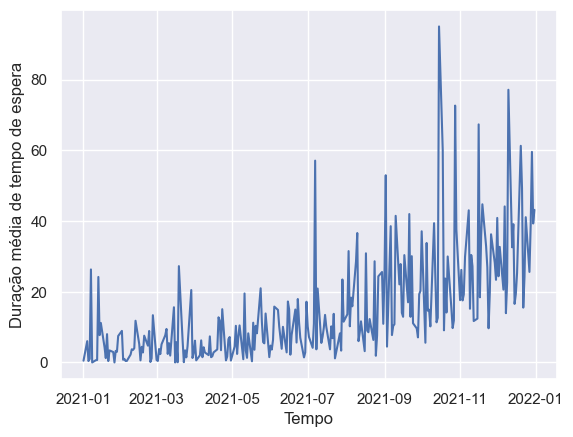
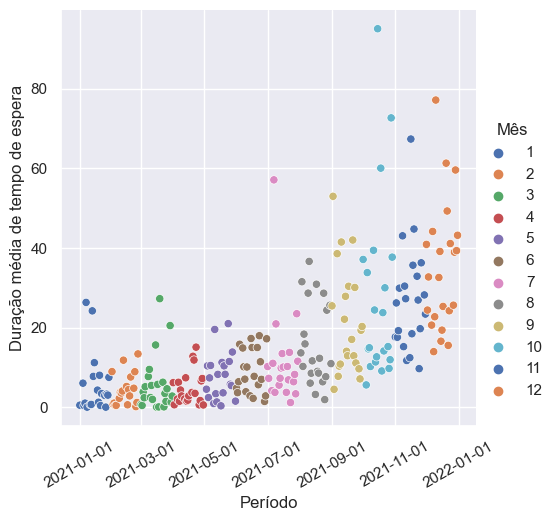
Correção para escrita do documento 2

diff --git a/Documentos/Entrega 2/analise-de-dados/regressao/regressao.tex b/Documentos/Entrega 2/analise-de-dados/regressao/regressao.tex
@@ -1,8 +1,8 @@
 \subsection{Estudos de Regressão}
 
-Ao montarmos a visualização dos tempos de chegada ao longo do tempo percebemos que havia tendência nos dados. Para isso, primeiro, calculamos todos os tempos de chegada das chamadas, subtraindo o horário de recebimento de uma chamada subsequente pelo da anterior, isto é:
+Ao montarmos a visualização dos tempos entre chegadas ao longo do tempo percebemos que havia tendência nos dados. Para isso, primeiro, calculamos todos os intervalos entre a chegada das chamadas, subtraindo o horário de recebimento de uma chamada subsequente pelo da anterior, isto é:
 
-$$Tempo_{chegada}(c_n) = t_n - t_{n-1}$$ 
+$$Intervalo_{chegada}(c_n) = t_n - t_{n-1}$$ 
 
 \begin{itemize}
     \item $c_n$ é a chamada de número $n$
@@ -10,16 +10,16 @@ $$Tempo_{chegada}(c_n) = t_n - t_{n-1}$$
     \item $t_{n-1}$ é o tempo de recebimento da chamada $n-1$
 \end{itemize}
 
-Depois, as chamadas foram classificadas por dia, e, assim, calculado o tempo de chegada médio diário delas. O principal intuito desta etapa é facilitar a visualização da evolução desse parâmetro ao longo do tempo. O gráfico obtido por essa operação está abaixo, na figura 13.
+Depois, as chamadas foram classificadas por dia, e, assim, calculado o intervalo de chegada médio diário delas. O principal intuito desta etapa é facilitar a visualização da evolução desse parâmetro ao longo do tempo. O gráfico obtido por essa operação está na Figura \ref*{fig: arrivals-tempo}.
 
-A partir dessa percepção, são, então, propostos alguns estudos de regressão mais particulares para representar a tendência dos dados. Um usando "Ordinary Least Squares" e uma regressão exponencial.  
+A partir dessa percepção, são então propostos alguns estudos de regressão mais particulares para representar a tendência dos dados. Um usando "Ordinary Least Squares"\;e uma regressão exponencial.  
 
-\subsection{Ordinary Least Squares}
+\subsubsection{Ordinary Least Squares (Regressão linear)}
 
-Utilizando a biblioteca statsmodel do python foi realizado o estudo de regressão. A Equação Obtida foi: $$intervalos(t) = -0,4933 \cdot t + 252,6629$$. O resumo da regressão e o plot podem ser colocados a seguir: 
+Utilizando a biblioteca Statsmodel do Python foi realizado o estudo de regressão. A Equação Obtida foi: $$intervalos(t) = -0,4933 \cdot t + 252,6629$$ O resumo da regressão é mostrado na Figura \ref*{fig: sum_OLS} e o plot na Figura \ref*{fig: plot_OLS}.
 
 \begin{figure}[H]
-    \includegraphics{analise-de-dados/regressao/regressao_OLS.png}
+    \includegraphics[scale=0.9]{analise-de-dados/regressao/regressao_OLS.png}
     \caption{Regressão Linear para os tempos de espera}
     \label{fig: plot_OLS}
 \end{figure}
@@ -32,14 +32,14 @@ Utilizando a biblioteca statsmodel do python foi realizado o estudo de regressã
 
 Temos que os valores p são menores que o nível de significância adotado, e, portanto, o modelo de regressão existe. Entretanto, para os dias em que $t > 512$ o tempo de chegada das chamadas seria negativo, o que levanta questões sobre se este método de regressão é aplicável para modelar o tempo entre as chamadas.
 
-\subsection{OLS exponencial}
+\subsubsection{OLS exponencial}
 
 De maneira semelhante ao primeiro estudo, este também foi feito utilizando a biblioteca statsmodel. Entretanto, ao invés dos parâmetros para a regressão terem sido adicionados como são ao modelo, ele foi construído usando: $$ln(y) = ln(b) + a \cdot x$$
 
 Dessa maneira, a equação obtida para representar os dados foi:
 $$intervalos(t) = 260,9424 \cdot e^{-0,0027x} $$
 
-O resumo e o gráfico da regressão estão nas imagens 16 e 17:
+O resumo e o gráfico da regressão estão nas Figuras \ref*{fig: sum_Expo_OLS} e \ref*{fig: plot_Expo_OLS}, respectivamente.
 \begin{figure}[H]
     \includegraphics{analise-de-dados/regressao/regressao_EXPO.png}
     \caption{Regressão Exponencial para os tempos de espera}
@@ -52,4 +52,4 @@ O resumo e o gráfico da regressão estão nas imagens 16 e 17:
     \label{fig: sum_Expo_OLS}
 \end{figure}
 
-Para Este caso, a explicabilidade do modelo aumentou e o problema que antes existia já não mais existe. Como os Valores P seguem menores do que 0, o modelo existe e pode ser usado.
+Para este caso, a explicabilidade do modelo aumentou e o problema da obtenção de intervalos negativos com a regressão linear deixou de existir. Como os valores $p$ seguem menores do que 0, o modelo existe e pode ser usado.

diff --git a/Documentos/Entrega 2/analise-de-dados/mensal/mensal.tex b/Documentos/Entrega 2/analise-de-dados/mensal/mensal.tex
@@ -1,21 +1,23 @@
 \subsection{Análise mensal}
-Foi realizada uma análise mês a mês a fim de identificar, a partir de uma nova perspectiva. Para isso, foi gerada uma tabela com um resumo das médias dos tempos de espera, serviço e de chegada de ligação mês a mês.\\
-A partir disso, foi possível calcular a porcentagem de falha (\%\_failure), com base na divisão do número total de ligações que demoraram mais de 60 segundos para serem atendidas pelo total de ligações atendidas em cada mês. 
-A partir dessa tabela \ref*{fig: tmes} é possível retirar algumas conclusões relevantes e transformar a base de dados com filtro mês a mês em informações capazes de nos demonstrar o comportamento do processo de atendimento nos quesitos tempo de espera médio, duração média do atendimento, média do tempo entre as chegadas, média do número de ligações recebidas e também a porcentagem de falhas.  
+Foi realizada uma agregação mensal a fim de visualizar as tendências das variáveis do sistema estudado ao longo do ano. Para isso, foi gerada uma tabela com um resumo das médias dos tempos de espera, serviço e de tempo entre chegadas das ligações mês a mês.\\
+A partir disso, foi possível calcular a porcentagem de falhas ("\%\_failure") com base na divisão do número total de ligações que demoraram mais de 60 segundos para serem atendidas pelo total de ligações atendidas em cada mês.\\
+A partir da Figura \ref*{fig: tmes} é possível visualizar alguns dados relevantes e transformar a base de dados com filtro mês a mês em informações capazes de nos demonstrar o comportamento do processo de atendimento nos quesitos tempo de espera médio, duração média do atendimento, média do tempo entre as chegadas, média do número de ligações recebidas e também a porcentagem de falhas.  
+
 \begin{figure}[H]
-    \includegraphics[scale=0.7]{analise-de-dados/mensal/tabmens.png}
+    \includegraphics[scale=0.75]{analise-de-dados/mensal/tabmens.png}
     \caption{Tabela de resumo das médias dos tempos de espera, serviço e de chegada de ligações mês a mês}
     \label{fig: tmes}
 \end{figure}
 
-Realizando uma análise de cada uma das variáveis analisadas, é possível obter:
+Realizando uma análise de cada uma das variáveis do sistema, apoiando-se nos testes de hipótese realizados anteriormente, é possível obter as seguintes conclusões a respeito dessas variáveis:
 \begin{itemize}
-    \item Tempo de espera: Aumenta mês a mês
-    \item Média do tempo de serviço: Relativamente constantes
-    \item Tempo entre chegadas: Diminui mensalmente
-    \item Número de ligações: Aumenta mensalmente
-    \item Percentual de falhas: Aumenta mês a mês. A partir de setembro de 2021, a tolerância de 10\% que foi estipulada pelo
-     gerente é superada e, a partir desta data se mantêm assim.\\
-Portanto, o percentual falhas, aqui definido como o percentual de chamadas que demoram mais de 60 segundos para serem atendidas, aumenta mês a mês, ultrapassando, a partir de setembro de 2021,
-a tolerância de 10\% estipulada pelo gerente e a operação começa a ficar fora das metas estipuladas pela gerência
+    \item Tempo de espera: aumenta mês a mês;
+    \item Média do tempo de serviço: relativamente constantes;
+    \item Tempo entre chegadas: diminui mensalmente;
+    \item Número de ligações: aumenta mensalmente;
+    \item Percentual de falhas: aumenta mês a mês. A partir de setembro de 2021, a tolerância de 10\% que foi estipulada pelo
+     gerente é superada.\\
 \end{itemize}
+
+Portanto, o percentual de falhas, aqui definido como o percentual de chamadas que demoram mais de 60 segundos para serem atendidas, aumenta mês a mês, ultrapassando, a partir de setembro de 2021,
+a tolerância de 10\% necessária para cumprir a meta de desempenho de 90\% das chamadas atendidas em até 1 minuto.

diff --git a/Documentos/Entrega 2/introducao/introducao.tex b/Documentos/Entrega 2/introducao/introducao.tex
@@ -1,44 +1,11 @@
-\subsection{Descrição do projeto}
-Na primeira etapa do projeto, foi realizada a modelagem e analíse dos dados referentes a ligações recebidas por uma central de atendimentos. Para isso, foram analisadas diferentes variáveis para que seu comportamento fosse analisado. Sendo assim, o projeto busca sanar os problemas relacionados a eficiência nos sistemas de atendimento, identificando possíveis gargalos.\\
-\begin{figure}[H]
-    \includegraphics[scale= 0.6]{introducao/imgintro.png}
-    \caption{Banco de dados - 5 primeiras chamadas}
-    \label{fig: bd_img}
-\end{figure}
-Na Figura \ref*{fig: bd_img}, pode-se observar 5 ligações registradas dentro da base de dados, bem como todas as variáveis.
-\begin{itemize} 
-    \item"Call\_id" é a identificação da ocorrência
-    \item"date" é a data
-    \item "daily\_caller" registra as ligações num dia
-    \item"call\_started", "call\_answered" e "call\_ended" são os momentos de ligação, atendimento e término das chamadas
-    \item wait\_length é o tempo de espera
-    \item"service\_length" é o tempo de atendimento
-    \item"meets\_standard" retorna verdadeiro caso o tempo de espera seja menor do que um minuto 
-    \item"call\_type" é o tipo da ligação.
-\end{itemize}
-Para os testes de hipóteses atrelados às diferenças entre essas variáveis em diferentes períodos foi utilizado o método Kolmogorov-Smirnov para duas amostras que possui caráter não parametrico, sendo assim:\\
-\begin{center}
-$H{0}$ : Amostras seguem a mesma distribuição\\
-$H{a}$ : Amostras seguem distribuições diferentes
-\end{center}
-Posteriormente a confirmação positiva da diferença entre amostras, foi realizado o teste de aderência das amostras às distribuições cauchy, chi quadrado, exponencial, gamma, lognormal, normal, powerlaw, rayleigh, uniforme.\\
-Por último para analisar as correlações entre variáveis, foram realizadas regressões lineares e exponeciais.\\
+\subsection{Descrição do problema}
+ESCREVER UMA DESCRIÇÃO (PRA VALER) DO PROBLEMA DO CALL-CENTER E QUAIS QUESTÕES VAMOS ABORDAR.
 
-\subsection{Próxima etapa}
-Para a próxima etapa do processo, será realizada a modelagem da diferença entre chegadas (ligações) no sistema, para que posteriormente seja desenvolvida a simulação no ARENA.
+\subsection{Alterações da versão anterior}
+Descrição mais detalhada do problema da central de atendimentos.\\
+Os gráficos de linhas das Figuras \ref*{fig: chamados-tempo}, \ref*{fig: t_servico-tempo}, \ref*{fig: espera-tempo} e \ref*{fig: arrivals-tempo} foram substituídos por gráficos de dispersão.\\
+A Figura \ref*{fig: correlogram} foi adicionada ao estudo de correlação das variáveis na Seção \ref*{section: correlacao-anual} para auxiliar na visualização do resultado obtido pelo teste de correlação de Spearman.\\
+As seções de introdução e conclusão foram reorganizadas para a escrita de novos conteúdos.\\
+Realização dos testes de aderência mensais para tempos entre chegadas na Seção \ref*{section: fit-arrivals}.\\
+Correção de erros gerais de redação e referências.
 
-\subsection{Ferramentas utilizadas}
-A modelagem e as análises estatísticas do projeto foram todas realizadas em python 3.9, através do ambiente google colab.\\
-Para isso, foram utilizadas as bibliotecas:
-\begin{itemize}
-    \item pandas
-    \item numpy
-    \item seaborn
-    \item fitter
-    \item scipy.stats
-    \item tabulate
-    \item sklearn.linear\_model
-    \item statsmodels.api
-    \item scipy.linalg
-    \item matplotlib.pyplot
-    \end{itemize}

diff --git a/Documentos/Entrega 2/analise-de-dados/semanal/semanal.tex b/Documentos/Entrega 2/analise-de-dados/semanal/semanal.tex
@@ -1,18 +1,20 @@
 \subsection{Análise semanal}
-O ponto principal para a escolha ou não da análise semanal é justamente a existência de diferenças das amostras semanais entre si, que justificaria posterior análise dos dados para melhor compreensão.\\
+O ponto principal para a escolha ou não da análise semanal é justamente a existência de diferenças das amostras semanais entre si, as quais justificariam a adoção desse nível de agregação mais detalhado.\\
+
 \subsubsection{Análise dos tempos de espera e serviço}
-O teste não paramétrico de Kolgomorov Smirnov novamente foi utilizado para realização do teste de hipótese.\\
-Para que não houvesse uma matriz com as respostas desnecessariamente grande (matriz 52x52) foi realizado o teste apenas para as semanas dos meses de dezembro e janeiro.\\
-    \begin{figure}[H]
-        \includegraphics{analise-de-dados/semanal/janas.png}
-        \caption{Kolgomorov Smirnov - teste para intervalos de chegada nas semanas de janeiro}
-        \label{fig: jan_as_img}
-    \end{figure}
-    \begin{figure}[H]
-        \includegraphics{analise-de-dados/semanal/dezas.png}
-        \caption{Kolgomorov Smirnov - teste para intervalos de chegada nas semanas de dezembro}
-        \label{fig: dez_as_img}
-    \end{figure}
-A figura \ref*{fig: jan_as_img} realiza o teste para os tempos de intervalo de chegada no mês de janeiro\\
-A figura \ref*{fig: dez_as_img} realiza o teste para os tempos de intervalo de chegada no mês de dezembro\\
+O teste não paramétrico de Kolgomorov Smirnov foi novamente utilizado para realização do teste de hipótese. Para que não houvesse uma matriz desnecessariamente grande, contendo testes dois a dois para cada uma das 52 semanas de um ano (matriz 52x52), foram representas apenas as primeiras oito semanas do ano e as últimas oito semanas do ano.
+
+\begin{figure}[H]
+    \includegraphics{analise-de-dados/semanal/janas.png}
+    \caption{Kolgomorov Smirnov - teste para intervalos de chegada nas semanas de janeiro}
+    \label{fig: jan_as_img}
+\end{figure}
+
+\begin{figure}[H]
+    \includegraphics{analise-de-dados/semanal/dezas.png}
+    \caption{Kolgomorov Smirnov - teste para intervalos de chegada nas semanas de dezembro}
+    \label{fig: dez_as_img}
+\end{figure}
+
+A Figura \ref*{fig: jan_as_img} mostra o teste de Kolmogorov-Smirnov para os tempos de intervalo entre chegadas nas primeiras oito semanas do ano. A Figura \ref*{fig: dez_as_img} apresenta o teste de hipóteses para os tempos de intervalo entre chegadas nas últimas oito semanas do ano.\\
 Foi possível observar que no horizonte de planejamento semanal, semanas subsequentes tendem a ter intervalos de chegada que seguem a mesma distribuição de probabilidade e, portanto, o planejamento semanal não é interessante para esse problema, visto que não é possível perceber as diferenças de demanda nesse nível de análise.

diff --git a/Documentos/Entrega 2/analise-de-dados/intro-analise/intro-analise.tex b/Documentos/Entrega 2/analise-de-dados/intro-analise/intro-analise.tex
@@ -1,0 +1,48 @@
+Na primeira etapa do projeto, foi realizada a modelagem e analíse dos dados referentes às ligações recebidas por uma central de atendimentos. Para isso, foram analisadas diferentes variáveis para que seus comportamentos fossem modelados. Sendo assim, o projeto busca sanar os problemas relacionados a eficiência nos sistemas de atendimento, identificando possíveis gargalos.
+
+\begin{figure}[H]
+    \includegraphics[scale= 0.6]{analise-de-dados/intro-analise/imgintro.png}
+    \caption{Banco de dados - 5 primeiras chamadas}
+    \label{fig: bd_img}
+\end{figure}
+
+Na Figura \ref*{fig: bd_img}, pode-se observar a estrutura da base de dados, assim como as colunas descritas a seguir:
+
+\begin{itemize} 
+    \item"call\_id" é a identificação da ligação (chave primária);
+    \item"date"\;é a data da ligação;
+    \item "daily\_caller"\;numera as ligações em um dia;
+    \item"call\_started", "call\_answered" e "call\_ended"\;são os instantes de chegada, atendimento e término  da ligação, respectivamente;
+    \item wait\_length\;é o tempo de espera;
+    \item"service\_length"\;é o tempo de atendimento;
+    \item"meets\_standard"\;retorna verdadeiro caso o tempo de espera seja menor do que um minuto;
+    \item"call\_type" é o tipo da ligação.
+\end{itemize}
+
+Todos os tempos da base de dados estão em segundos.\\
+Para os testes de hipóteses atrelados às diferenças entre essas variáveis em diferentes períodos foi utilizado o teste de Kolmogorov-Smirnov para duas amostras, que possui caráter não paramétrico, com as seguintes hipóteses:\\
+
+\begin{center}
+$H_0$ : As amostras seguem a mesma distribuição\\
+$H_A$ : As amostras seguem distribuições diferentes
+\end{center}
+
+Posteriormente à confirmação positiva da diferença entre amostras, foi realizado o teste de aderência das amostras às distribuições cauchy, chi quadrado, exponencial, gamma, lognormal, normal, powerlaw, rayleigh e uniforme.\\
+Por fim, para analisar as correlações entre variáveis, foram realizadas regressões lineares e exponenciais.\\
+
+\subsection{Ferramentas utilizadas}
+A modelagem e as análises estatísticas do projeto foram realizadas utilizando a linguagem Python em sua versão 3.9, por meio do ambiente Google Colab.\\
+Para isso, foram utilizadas as seguintes bibliotecas de Python:
+
+\begin{itemize}
+    \item Jupyter-notebook;
+    \item Pandas;
+    \item Numpy;
+    \item Seaborn;
+    \item Fitter;
+    \item Scipy;
+    \item Tabulate;
+    \item Scikit-learn;
+    \item Statsmodels;
+    \item Matplotlib.
+\end{itemize}

diff --git a/Documentos/Entrega 2/analise-de-dados/fit/fit-mensal.tex b/Documentos/Entrega 2/analise-de-dados/fit/fit-mensal.tex
@@ -1,0 +1,23 @@
+\subsection{Fit dos tempos entre chegadas para cada mês} 
+\label{section: fit-arrivals}
+Conforme atestado no teste de hipóteses apresentado na Figura \ref*{fig: ks-arrivals}, o tempo entre as chegadas das ligações muda mês a mês, sendo necessário representar o intervalo entre as chegadas com diferentes distribuições de probabilidade ao longo do tempo em nosso modelo de simulação. A distribuição exponencial é a mais adequada para modelar os dados em todos os meses, visto que apresenta pequenos erros e maiores valores $p$ em relação às demais distribuições.
+
+\subsubsection*{Janeiro}
+No primeiro mês do ano, o teste de aderência de Kolgomogorov-Smirnov indica que a distribuição que melhor representa os valores dos tempos entre chegadas é a exponencial com média 248,6240 segundos. A Figura \ref*{fig: fit-janeiro} apresenta o resumo dos testes realizados.
+
+\begin{figure}[H]
+    \includegraphics[scale=0.8]{analise-de-dados/fit/fit-janeiro.png}
+    \caption{Teste de aderência dos tempos entre chegadas para o mês de janeiro}
+    \label{fig: fit-janeiro}
+\end{figure}
+
+\subsubsection*{Fevereiro}
+\subsubsection*{Março}
+\subsubsection*{Abril}
+\subsubsection*{Junho}
+\subsubsection*{Julho}
+\subsubsection*{Agosto}
+\subsubsection*{Setembro}
+\subsubsection*{Outubro}
+\subsubsection*{Novembro}
+\subsubsection*{Dezembro}

diff --git a/Documentos/Entrega 2/analise-de-dados/sumario/sumario.tex b/Documentos/Entrega 2/analise-de-dados/sumario/sumario.tex
@@ -1,0 +1,3 @@
+\subsection{Sumário da análise de dados}
+A análise de dados foi um importante processo para o projeto de simulação que está sendo desenvolvido. Por meio dela conseguimos compreender, e testar, quais os melhores níveis de agregação, as distribuições que melhor representam os dados do projeto, o comportamento dos parâmetros e as tendências sob as quais estes se apoiam. Dessa forma, foi possível definir o nível de agregação mensal para o planejamento das atividades do call center, por ser o nível que melhor representa o crescimento do número de chegadas ao longo do ano, assim como modelar os tempos de serviço para o ano inteiro.\\
+Restam os esforços para incluir o processo de tendência na simulação e na tomada de decisão para o cliente, garantindo uma assertividade maior ao projeto. Afinal, é esperado que o problema apresentado volte a ocorrer ao longo do tempo se a solução oferecida considerar apenas o estado passado do sistema.

diff --git a/Documentos/Entrega 2/capa/capa.tex b/Documentos/Entrega 2/capa/capa.tex
@@ -13,13 +13,13 @@
 \vspace*{.8cm}
 {\Large \textbf{SIMULAÇÃO DE SISTEMAS}}\\
 \vspace*{3cm}
-{\Large \textbf{Análise de Dados Históricos de um Call center}}\\
+{\Large \textbf{Projeto para uma central de atendimentos}}\\
 \vspace*{4.5cm}
 \begin{flushright}
     \onehalfspacing
+    {\Large  Lucas Gabriel Malheiros Machado Silva - 769837}\\
     {\Large  Paulo Roberto Mattielo Filho - 792323}\\
     {\Large  Pedro Peverari Di Lallo - 792328}\\
-    {\Large  Lucas Gabriel Malheiros - 769837}\\
     {\Large  Vinícius Marques do Valle Nobre - 792348}\\
     \vspace*{.3cm}
     {\Large \textbf{Professor:}}

diff --git a/Documentos/Entrega 2/main.tex b/Documentos/Entrega 2/main.tex
@@ -28,11 +28,14 @@
 \input{introducao/introducao.tex}
 
 \section{Análise de dados}
+\input{analise-de-dados/intro-analise/intro-analise.tex}
 \input{analise-de-dados/anual/anual.tex}
 \input{analise-de-dados/mensal/mensal.tex}
 \input{analise-de-dados/trimestral/trimestral.tex}
 \input{analise-de-dados/semanal/semanal.tex}
 \input{analise-de-dados/regressao/regressao.tex}
+\input{analise-de-dados/fit/fit-mensal.tex}
+\input{analise-de-dados/sumario/sumario.tex}
 
 \section{Conclusão}
 \input{conclusao/conclusao.tex}

diff --git a/Documentos/Entrega 2/analise-de-dados/trimestral/trimestral.tex b/Documentos/Entrega 2/analise-de-dados/trimestral/trimestral.tex
@@ -1,5 +1,5 @@
 \subsection{Análise trimestral}
-Agregando os valores para períodos trimestrais conseguimos chegar aos dados presentes na Tabela \ref*{fig: tritab_img}:
+Agregando os valores para períodos trimestrais conseguimos chegar aos dados presentes na Figura \ref*{fig: tritab_img}:
 
 \begin{figure}[H]
     \includegraphics[scale=0.7]{analise-de-dados/trimestral/tritab.png}
